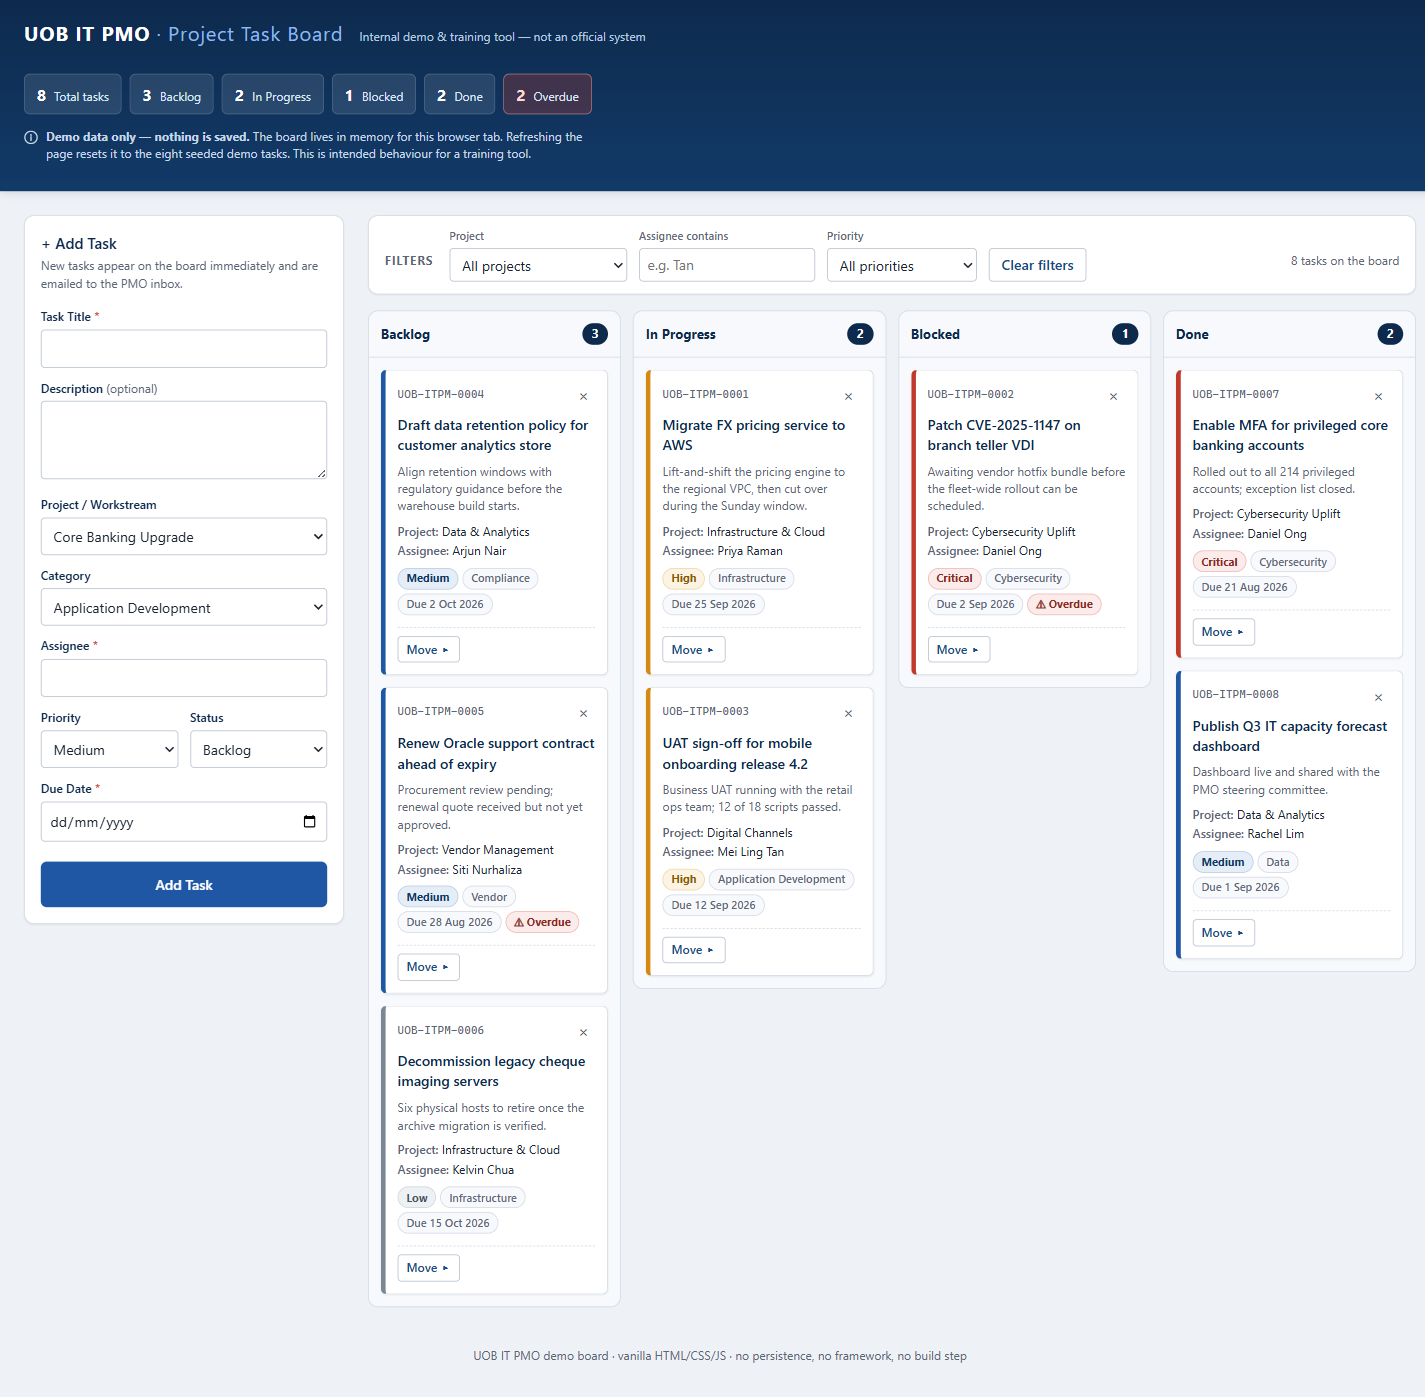
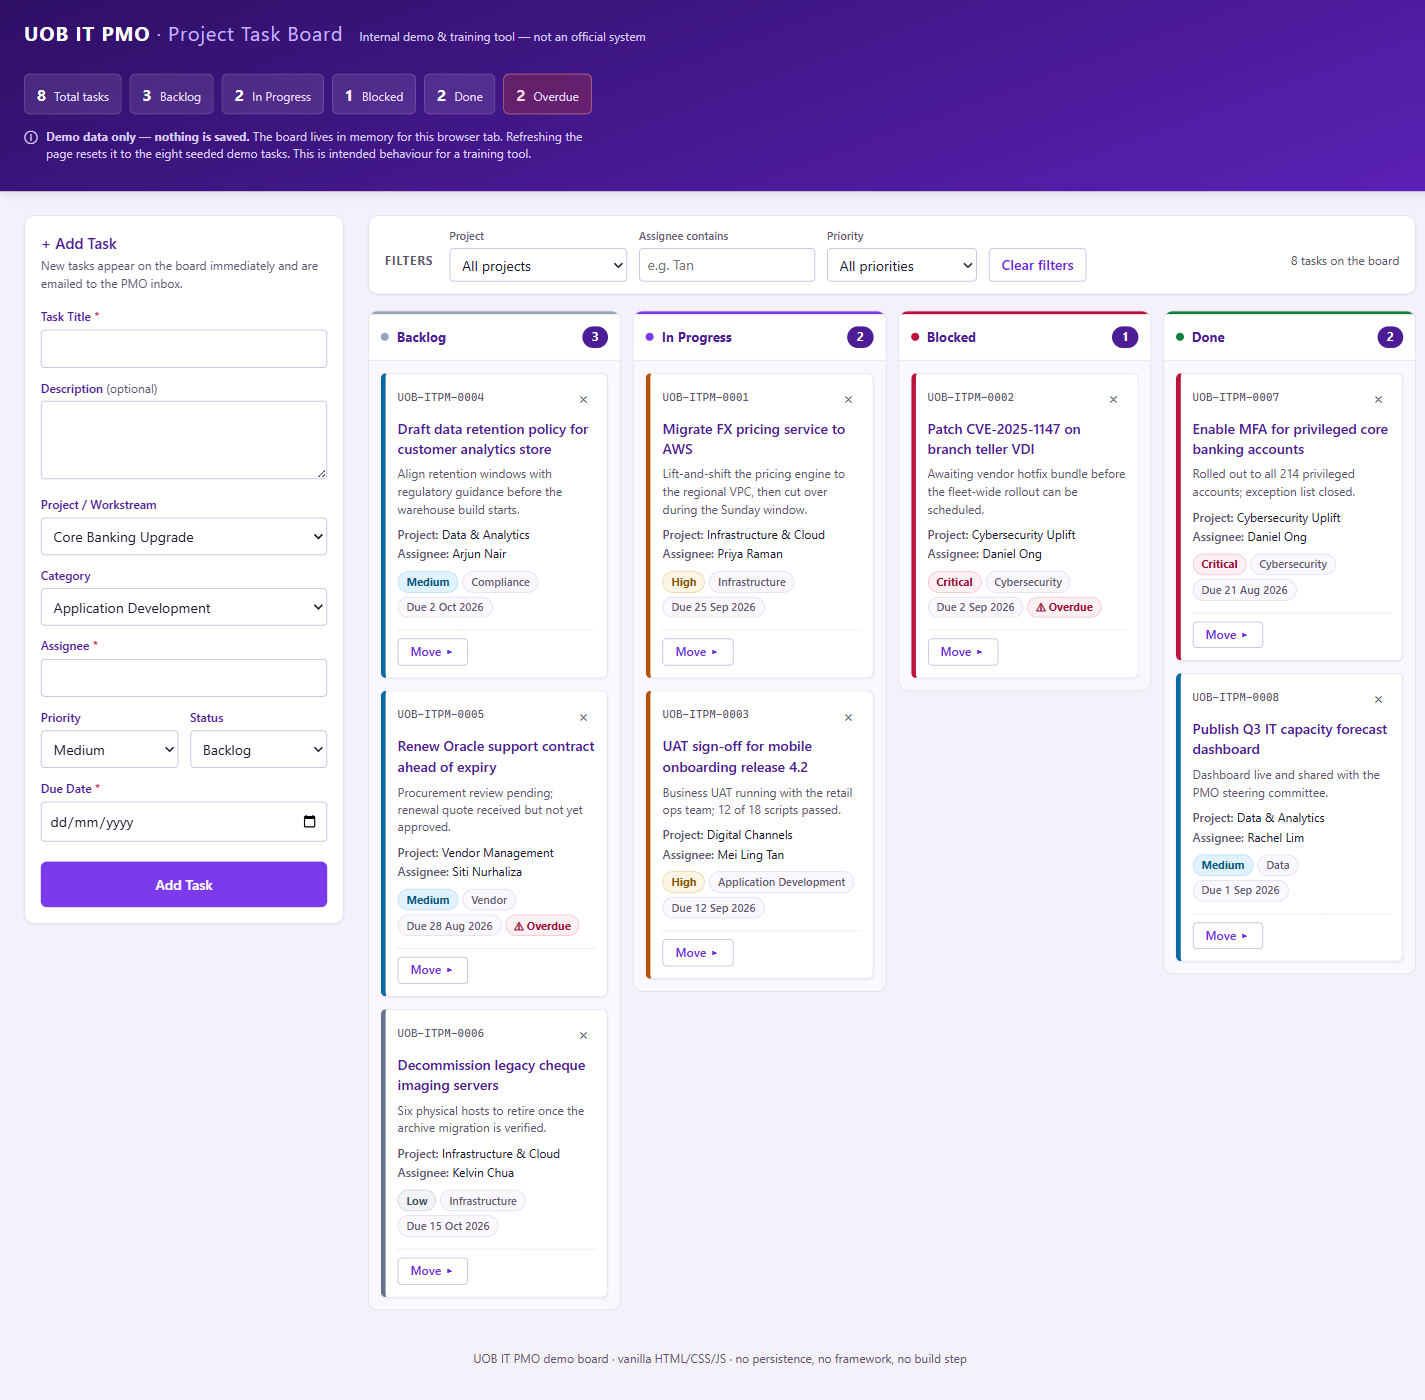
Refresh the README screenshot and document the hardening
The screenshot showed the old blue board. Recaptured from the deployed
site at 1440x900 after the purple revamp went live.

Adds a "Client-side hardening" section. The controls are only meaningful
if a reader knows what they do and do not cover, so it names the two
accepted risks -- the public unauthenticated FormSubmit endpoint, and
clickjacking, which a meta CSP cannot block -- rather than implying the
board is protected against them.

diff --git a/README.md b/README.md
@@ -8,8 +8,9 @@ tool. Vanilla HTML, CSS and JavaScript in one file — no framework, no build st
 > This is a demo/training tool, not an official system. It uses a neutral text wordmark and a
 > generic corporate blue palette — no UOB logo, trademarks, or imitation of any real UOB system.
 
-![The board with its eight seeded demo tasks across the Backlog, In Progress, Blocked and Done
-columns, with the Add Task form on the left](docs/screenshot.png)
+![The purple-themed board with its eight seeded demo tasks across the Backlog, In Progress, Blocked
+and Done columns — each column topped by a coloured rail and status dot — with the Add Task form in
+a sidebar on the left](docs/screenshot.png)
 
 ## Live demo
 
@@ -44,6 +45,31 @@ No server, no install, no build.
 Board state lives in a JavaScript array in memory. There is no `localStorage`, `sessionStorage`,
 IndexedDB, or cookie use anywhere. **Refreshing the page resets the board to its eight seeded demo
 tasks.** This is intended behaviour for a training tool, and the UI says so.
+
+## Client-side hardening
+
+There is no backend, so none of this is a substitute for server-side validation — it is what a
+single static file can actually enforce:
+
+- **Content Security Policy** via `<meta>`. `connect-src` pins outbound requests to the FormSubmit
+  endpoint, so injected script has nowhere to exfiltrate to; `form-action`, `base-uri` and
+  `object-src` are locked off. `'unsafe-inline'` is unavoidable here (the app *is* one inline
+  block) and is deliberately accepted — the containment above is what the policy buys.
+- **Output escaping.** `escapeHtml()` wraps every user string interpolated into HTML, attribute
+  values included.
+- **Input sanitising.** Control characters and Unicode bidi overrides are stripped from free text,
+  so a title cannot be made to read differently from what it contains.
+- **Allow-listed selects.** Project, category, priority and status are re-checked against their
+  lists rather than trusted because the markup offered no other option.
+- **Drag payloads are origin-checked.** Drops carry a private MIME type cross-checked against the
+  id recorded on `dragstart`, so text dragged in from another tab is ignored.
+- **Bounded network call.** The FormSubmit request aborts after 10s, sends no cookies and no
+  referrer, and its response body is never read back into the page. Submissions are rate-limited.
+
+Two risks are known and accepted: the FormSubmit endpoint is public and unauthenticated (anyone
+reading the source can POST to it — not fixable client-side), and `frame-ancestors` is ignored in a
+meta CSP, so clickjacking cannot be blocked from inside the file. Neither matters much for a board
+with no auth, no privileged actions and no real data.
 
 ## Configuration
 
